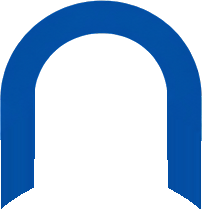
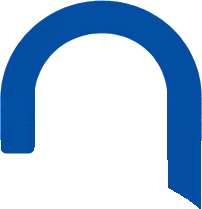
Padlock animation: key twists in the keyhole, shackle lifts clear of the body
Claude-Session: https://claude.ai/code/session_01RrgPSv5FZEd99BayXaAJSG

Changed region(s): [[0.0, 0.7177, 0.1782, 1.0]]

diff --git a/forgot-animation/index.html b/forgot-animation/index.html
@@ -111,13 +111,14 @@ const LOCK_FADE_TIME    = 1200;
 const LOCK_HOLD         = 400;
 const KEY_SLIDE_TIME    = 800;
 const KEY_TURN_TIME     = 500;
-const KEY_TURN_ANGLE    = 80;     // degrees, clockwise around the keyhole
+const KEY_TWIST         = 70;     // degrees the key twists around its own shaft, like turning a real key
+const KEY_TILT          = 14;     // degrees it tilts to the right (clockwise) while turning, tip stays in the keyhole
 const SHACKLE_OPEN_TIME = 600;
-const SHACKLE_LIFT      = 28;
+const SHACKLE_LIFT      = 36;     // high enough that the left leg clears the body and a gap shows
 const SHACKLE_SWING     = -35;    // degrees ("swing" mode only)
 const BURST_STAGGER     = 40;     // per rank, nearest pieces first, left and right together
 const BURST_TIME        = 800;    // one piece's flight
-const SHACKLE_CLOSE_AFTER = 700;  // after the unlock
+const SHACKLE_CLOSE_AFTER = 1000; // after the unlock (long enough to read the open padlock)
 const HOLD_TIME         = 3000;
 const FADE_TIME         = 600;
 const SPRING     = 'cubic-bezier(0.34, 1.56, 0.64, 1)';
@@ -262,8 +263,11 @@ function keyIn(){
 function keyGlint(){
   anim(glint.firstChild, [{ left:'52%', opacity:0 }, { opacity:1, offset:.2 }, { opacity:1, offset:.8 }, { left:'104%', opacity:0 }], { duration:550, easing:'ease-in-out' });
 }
+// turned pose: the key stays in the keyhole, twists around its shaft (3D) and tilts slightly to the right
+const KEY_TURNED = `perspective(${U(900)}) rotate(${KEY_TILT}deg) rotateX(${KEY_TWIST}deg)`;
+const KEY_REST   = `perspective(${U(900)}) rotate(0deg) rotateX(0deg)`;
 function keyTurn(){
-  return anim(key, [{ transform:'rotate(0deg)' }, { transform:`rotate(${KEY_TURN_ANGLE}deg)` }], { duration:KEY_TURN_TIME, easing:'ease-in-out' }).finished;
+  return anim(key, [{ transform:KEY_REST }, { transform:KEY_TURNED }], { duration:KEY_TURN_TIME, easing:'ease-in-out' }).finished;
 }
 function click(){
   anim(shake, [
@@ -287,9 +291,9 @@ function shackleClose(){
 }
 function keyAfter(){
   if (KEY_AFTER_UNLOCK === 'fade'){
-    return anim(key, [{ opacity:1, transform:`rotate(${KEY_TURN_ANGLE}deg)` }, { opacity:0, transform:`translateX(${U(40)}) rotate(${KEY_TURN_ANGLE}deg)` }], { duration:500, easing:'ease-in' }).finished;
+    return anim(key, [{ opacity:1, transform:KEY_TURNED }, { opacity:0, transform:`translateX(${U(40)}) ${KEY_TURNED}` }], { duration:500, easing:'ease-in' }).finished;
   }
-  return anim(key, [{ transform:`rotate(${KEY_TURN_ANGLE}deg)` }, { transform:'rotate(0deg)' }], { duration:KEY_TURN_TIME, easing:'ease-in-out' }).finished;
+  return anim(key, [{ transform:KEY_TURNED }, { transform:KEY_REST }], { duration:KEY_TURN_TIME, easing:'ease-in-out' }).finished;
 }
 function lightBurst(){
   anim(flash, [{ opacity:0, transform:'scale(.4)' }, { opacity:.8, transform:'scale(.9)', offset:.35 }, { opacity:0, transform:'scale(1.4)' }], { duration:600, easing:'ease-out' });
